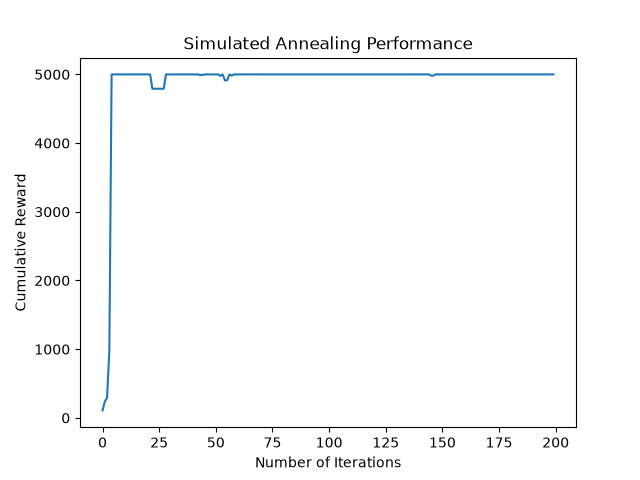
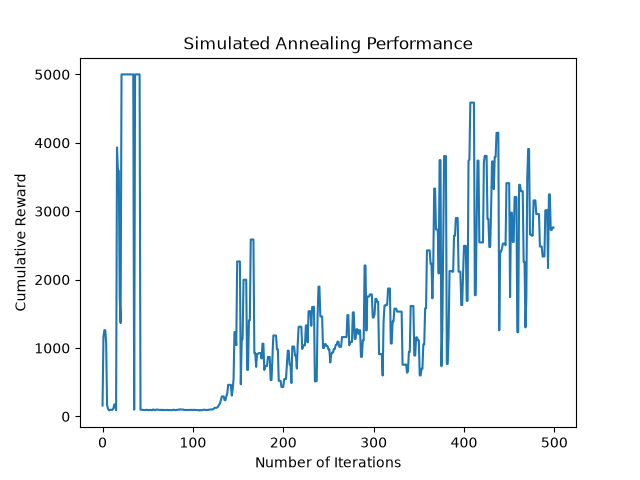
made a few tweaks and added documentation;
changed the line plt.savefig to take a filepath variable. This variabel save the file where main.py is, regardless of which directory you run the file from.

added documentation to mysim_annealing function, with args and returns specs.

moved f(current) outside the loop, and at the of the loop, f_curr = f_succ. this way we only need to calcucalte f(current) once and dynamically calculate f(successor).

diff --git a/Labs/lab2/main.py b/Labs/lab2/main.py
@@ -4,6 +4,11 @@ import numpy as np
 np.set_printoptions(precision=2)
 from scipy.optimize import minimize
 import matplotlib.pyplot as plt
+from pathlib import Path
+
+# Directory where main.py is located
+script_dir = Path(__file__).parent
+file_path = script_dir / "performance_plot.png"
 
 def test_agent(parameters, render=False):
     """
@@ -37,12 +42,26 @@ def test_agent(parameters, render=False):
 
 # Write a search to find the best parameters for the CartPoleAgent.
 # YOUR CODE HERE
-def mysim_annealing(f, params, n=200, T=1000):
+def mysim_annealing(f, params, iters=500, T=1000):
+    """
+    Search Algorithm using simulated annealing
+    
+    Args:  
+        f (function): the loss function that returns the score for the search
+        params (np.array): the initial parameters to pass to the function
+        iters (int): number of iterations for the search
+        T (int): a integer that decreases to 0 over n iterations
+    
+    Returns:
+        a tuple with the best parameters, the cumulative reward, 
+        and a list of the history of the rewards
+    """
     current = params
     multiplier = 0.95
     best_score = 0
     best_history = []
-    for _ in range(n):
+    f_curr = f(current)
+    for _ in range(iters):
         # T decreases by the multiplier
         T *= multiplier
         
@@ -55,7 +74,6 @@ def mysim_annealing(f, params, n=200, T=1000):
 
         # using loss function (f(x)) to calculate delta_e
         f_succ = f(successor)
-        f_curr = f(current)
         delta_e = f_succ - f_curr
         
         if delta_e < 0:
@@ -63,8 +81,9 @@ def mysim_annealing(f, params, n=200, T=1000):
             best_score = f_succ    
         elif np.random.random() < np.exp(((-delta_e)/T)): # accept successor with a chance of e^(-ΔE/T)
             current = successor
-            best_score = f_succ 
-
+            best_score = f_succ
+        
+        f_curr = f_succ
         best_history.append(abs(best_score))
 
     return (current, best_score, best_history)
@@ -72,14 +91,14 @@ def mysim_annealing(f, params, n=200, T=1000):
 def func_wrapper(parameters):
     return -test_agent(parameters)
 
-result, score, history = mysim_annealing(func_wrapper, params=np.random.uniform(-1, 1, size=5), T=1000)
+result, score, history = mysim_annealing(func_wrapper, params=np.random.uniform(-1, 1, size=5))
 
 print(f"Results: {result}; Score: {abs(score)}")
 plt.plot(history)
 plt.title("Simulated Annealing Performance")
 plt.xlabel("Number of Iterations")
 plt.ylabel("Cumulative Reward")
-plt.savefig("performance_plot.png") 
+plt.savefig(file_path)
 
 test_agent(result, render=True) 
 
